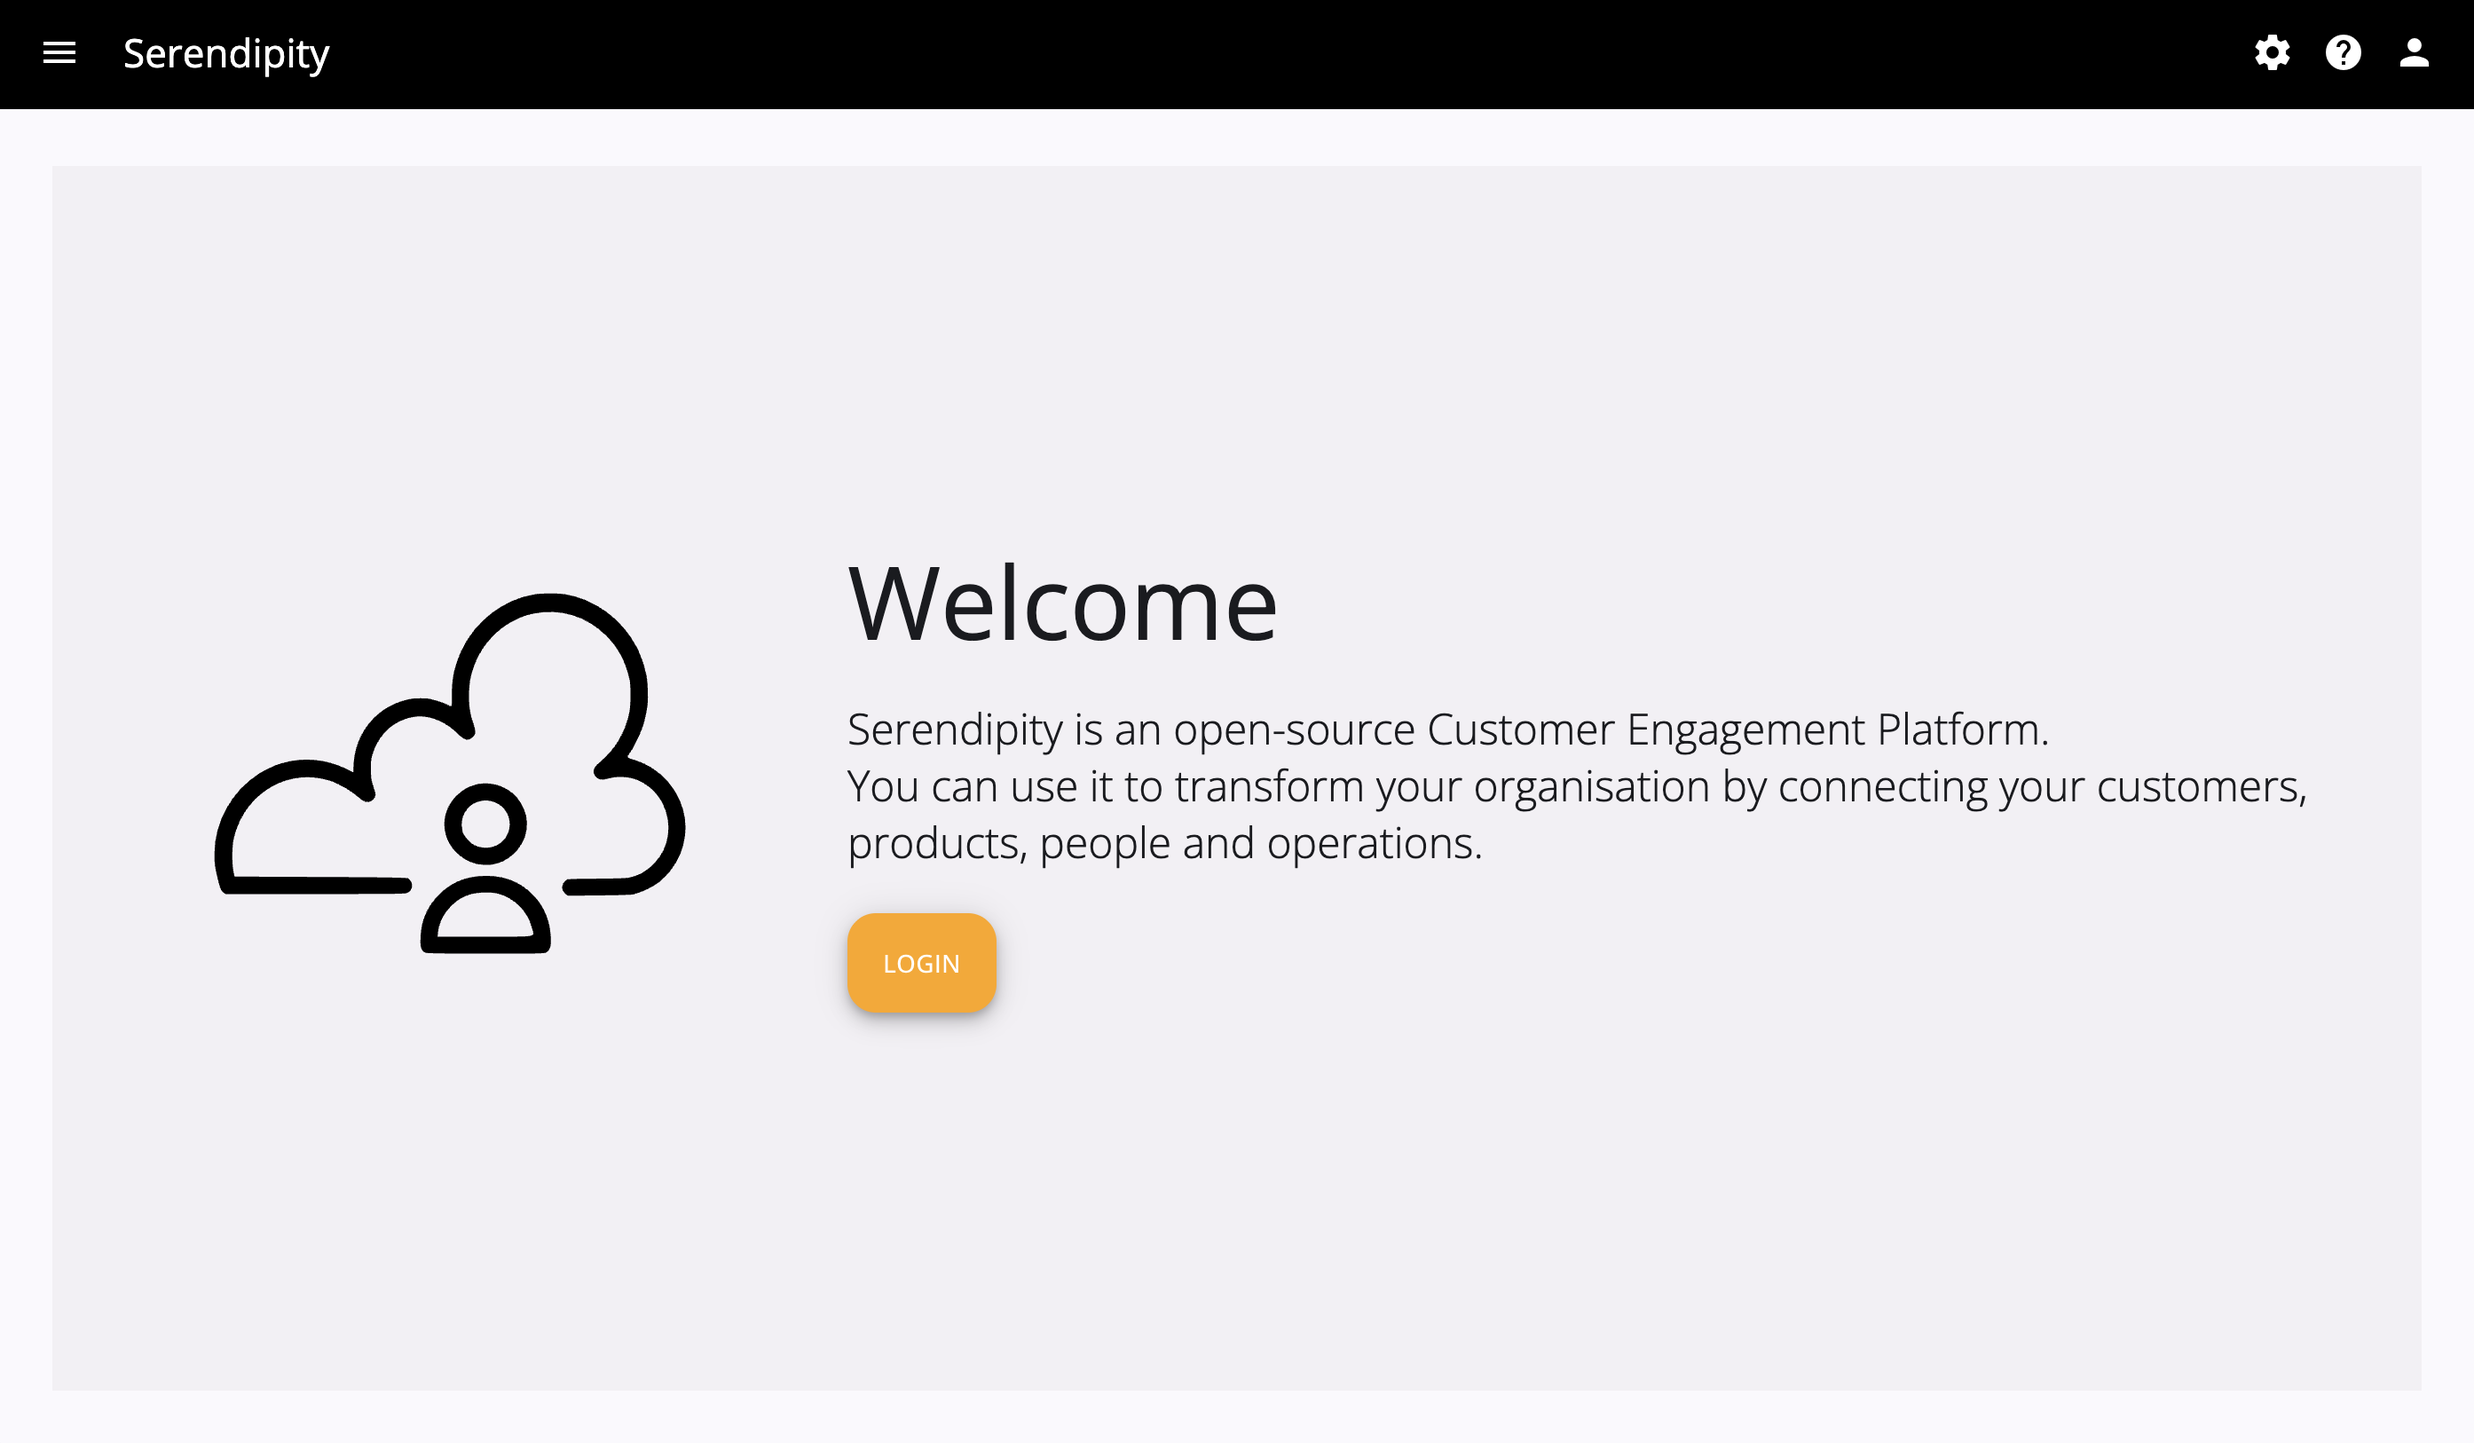
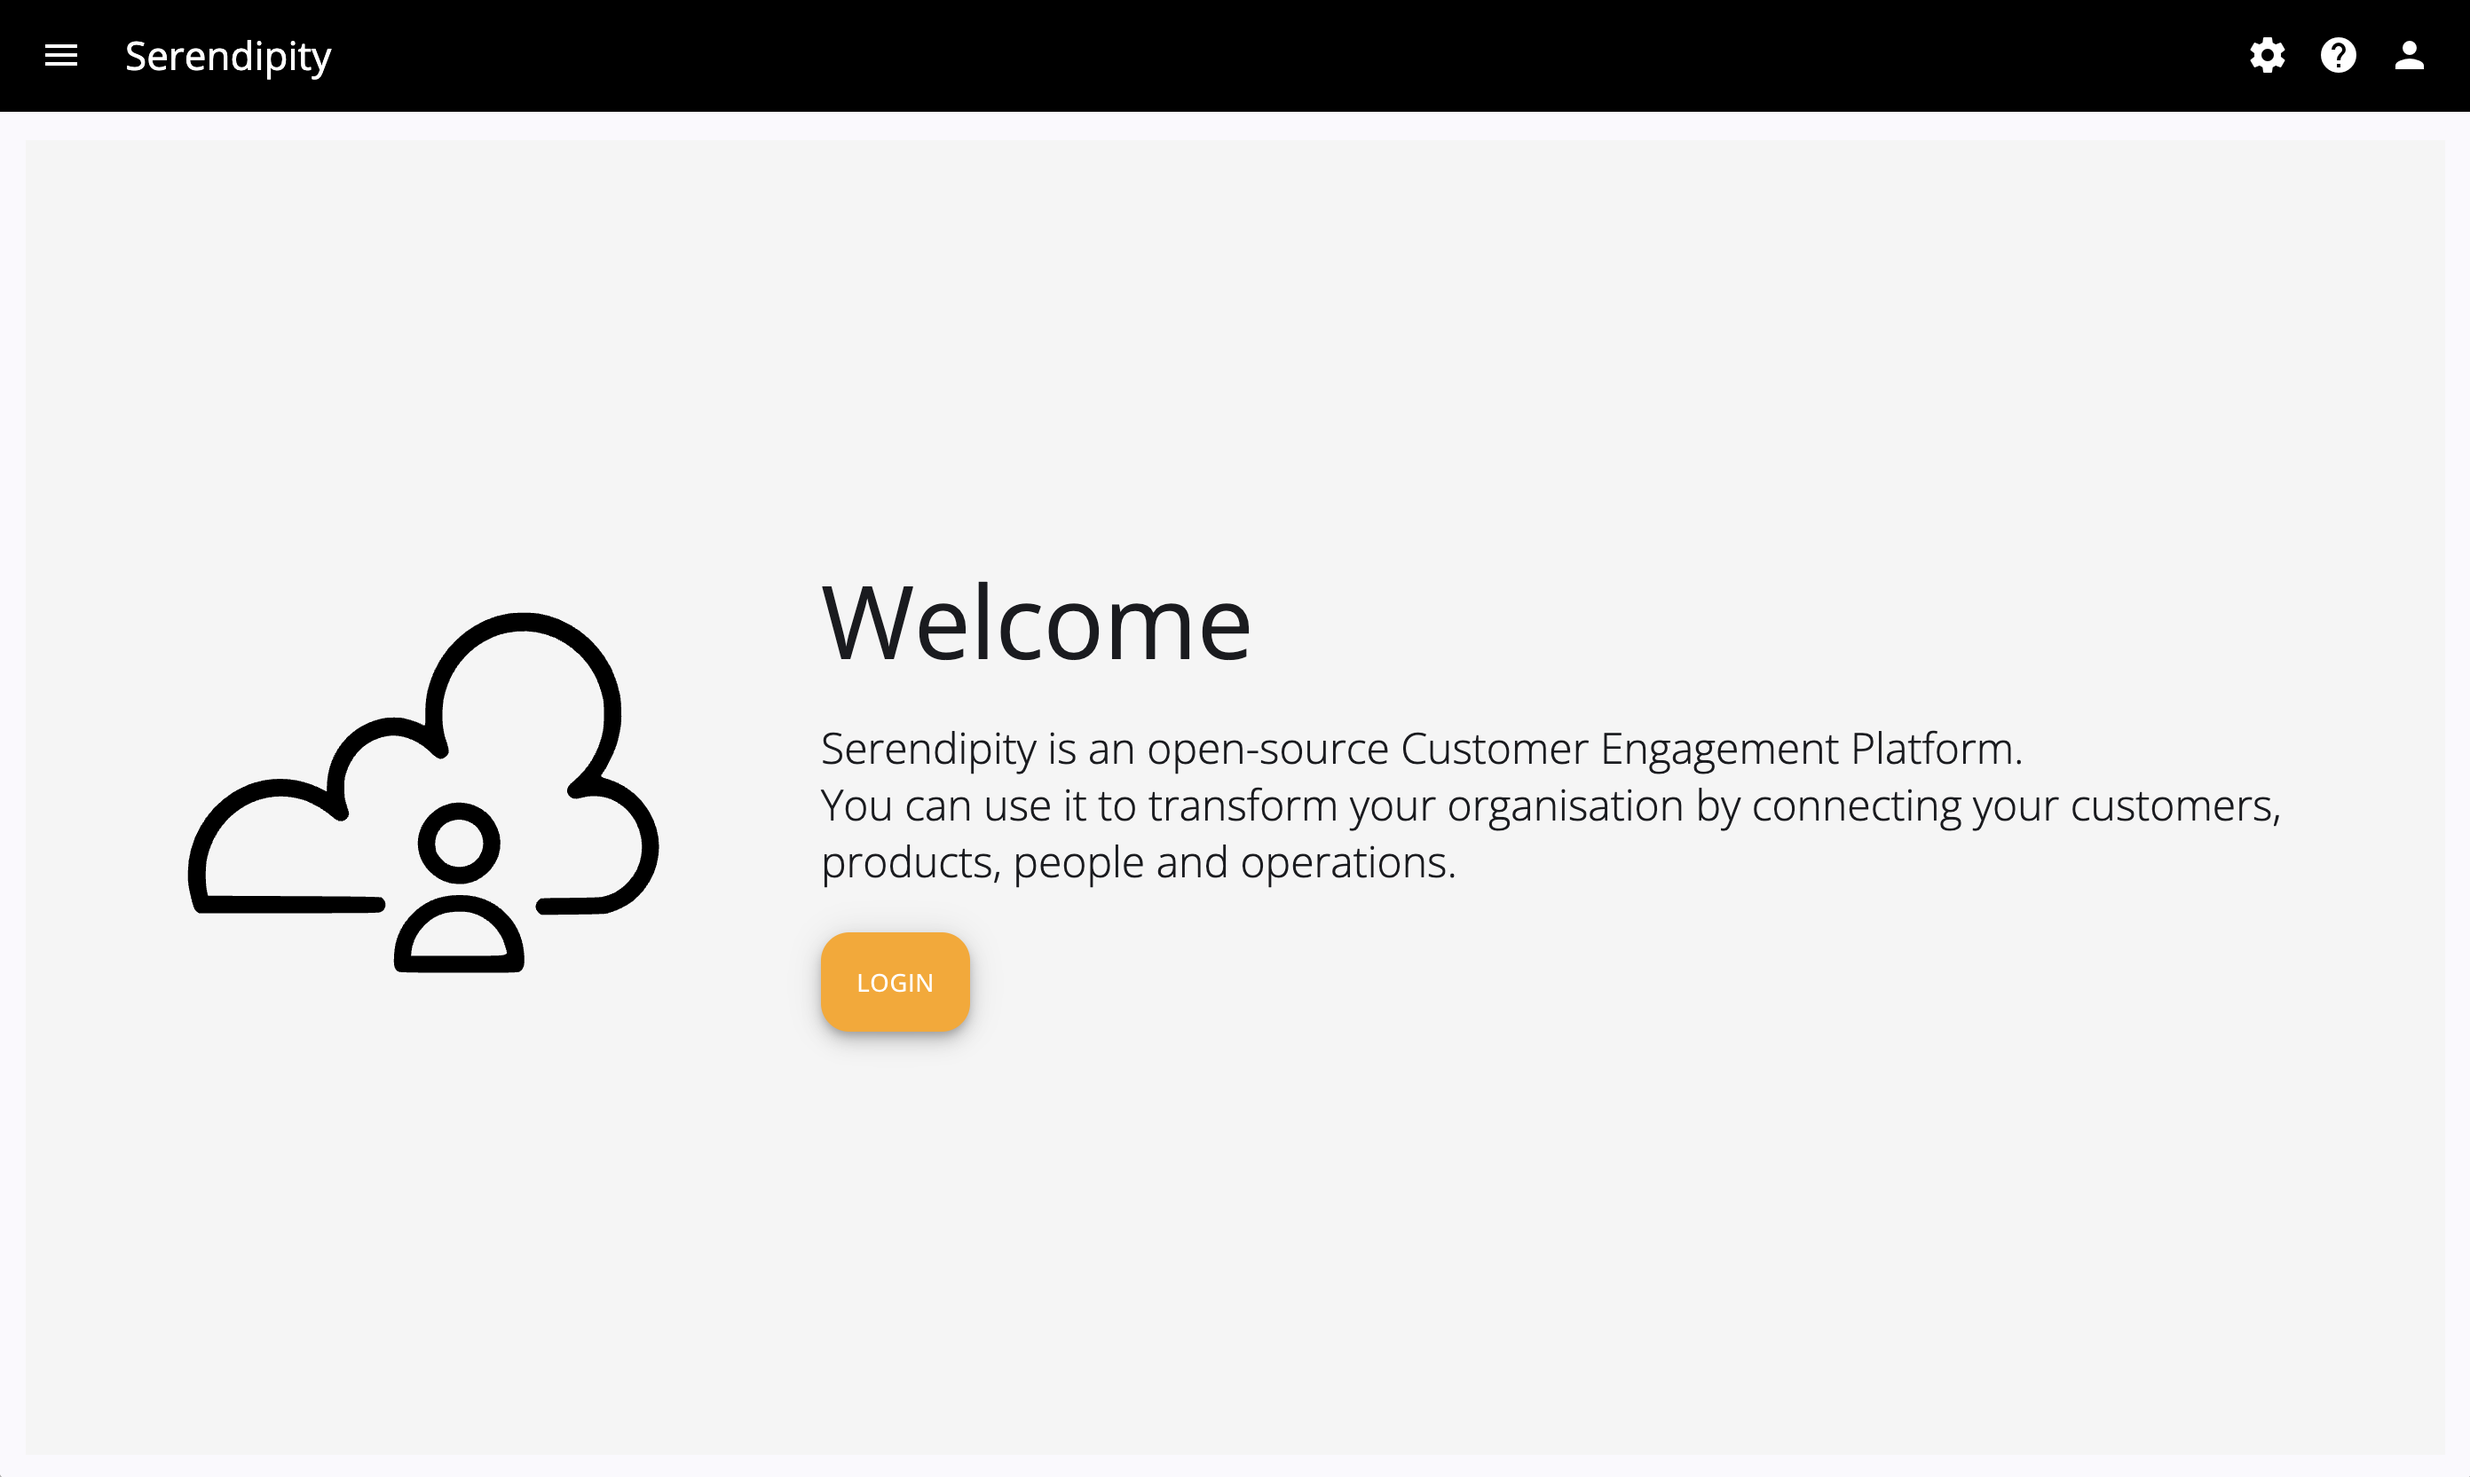
Updated the README.md

diff --git a/frontend/projects/serendipity-pwa/src/app/features/home/home.scss b/frontend/projects/serendipity-pwa/src/app/features/home/home.scss
@@ -1,41 +1,39 @@
-$container-height-offset: 128px;
-$container-margin: 32px;
-$container-padding: 64px;
-
-$icon-padding: 64px;
-$icon-size: 320px;
+@use './variables';
 
 .container {
+  background: whitesmoke;
   display: grid;
   grid-template-columns: 1fr 3fr;
-  height: calc(100vh - #{$container-height-offset});
-  background: var(--mat-sys-inverse-on-surface);
-  margin: $container-margin;
+  // $toolbar-height-desktop + 2 x variables.$container-margin
+  height: calc(100vh - (64px + 32px));
+  margin: variables.$container-margin;
 }
 
 .column-1 {
-  grid-column: 1;
   align-content: center;
+  grid-column: 1;
 }
 
 .column-2 {
-  grid-column: 2;
   align-content: center;
-  padding-right: $container-padding;
+  grid-column: 2;
+  padding-right: variables.$container-padding;
 }
 
 .logo {
-  padding: $icon-padding;
-  height: $icon-size;
-  width: $icon-size;
+  height: variables.$icon-size;
+  padding: variables.$icon-padding;
+  width: variables.$icon-size;
 }
 
 
 
 /*
 
-  // grid-template-columns: minmax(0, 1fr) minmax(0, 1fr);
+  background: var(--mat-sys-inverse-on-surface);
 
-  // background: rgba(0, 0, 0, 0.04);
+  grid-template-columns: minmax(0, 1fr) minmax(0, 1fr);
+
+  background: rgba(0, 0, 0, 0.04);
 
 */

diff --git a/frontend/projects/serendipity-components-lib/src/styles.scss b/frontend/projects/serendipity-components-lib/src/styles.scss
@@ -4,13 +4,13 @@
 
 .md-content-container {
   background: whitesmoke;
-  // $toolbar-height-desktop + $command-bar-height-desktop + $activity-bar-height-desktop + 2 x $table-margin-desktop
+  // $toolbar-height-desktop + $command-bar-height-desktop + $activity-bar-height-desktop
   height: calc(100vh - (64px + 48px + 56px));
   width: 100%;
 }
 
 .md-table-container {
-  // $toolbar-height-desktop + $command-bar-height-desktop + $activity-bar-height-desktop + 2 x $table-margin-desktop
+  // $toolbar-height-desktop + $command-bar-height-desktop + $activity-bar-height-desktop + $table-margin-desktop
   height: calc(100vh - (64px + 48px + 56px + 16px));
   margin-left: variables.$table-margin-desktop;
   margin-right: variables.$table-margin-desktop;

diff --git a/frontend/projects/serendipity-components-lib/src/_variables.scss b/frontend/projects/serendipity-components-lib/src/_variables.scss
@@ -1,6 +1,5 @@
 $button-margin-right: 8px !default;
 
 // Table
-// $table-margin-desktop: 32px;
 $table-margin-desktop: 16px;
 $table-margin-mobile: 0;

diff --git a/frontend/projects/serendipity-pwa/src/app/features/home/_variables.scss b/frontend/projects/serendipity-pwa/src/app/features/home/_variables.scss
@@ -1,0 +1,5 @@
+$container-margin: 16px;
+$container-padding: 64px;
+
+$icon-padding: 64px;
+$icon-size: 320px;
